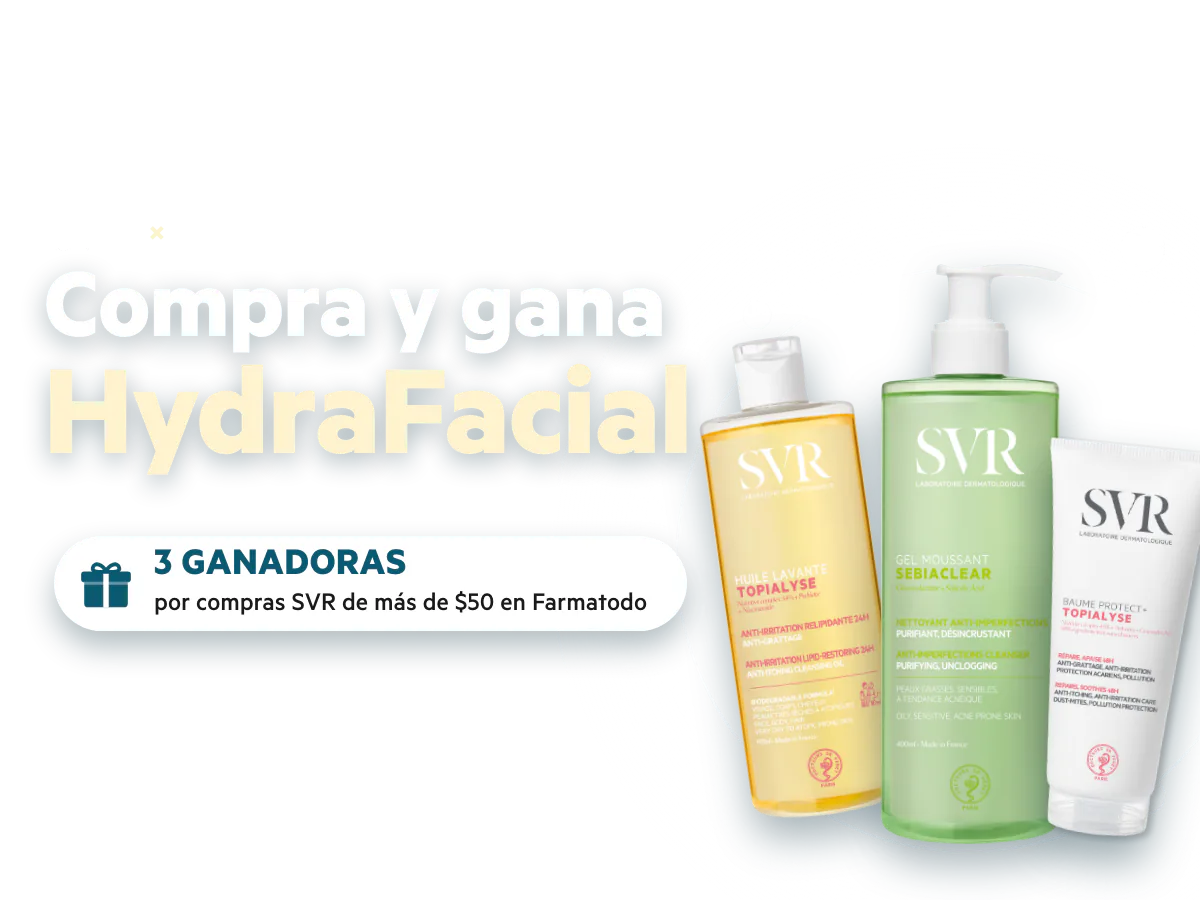
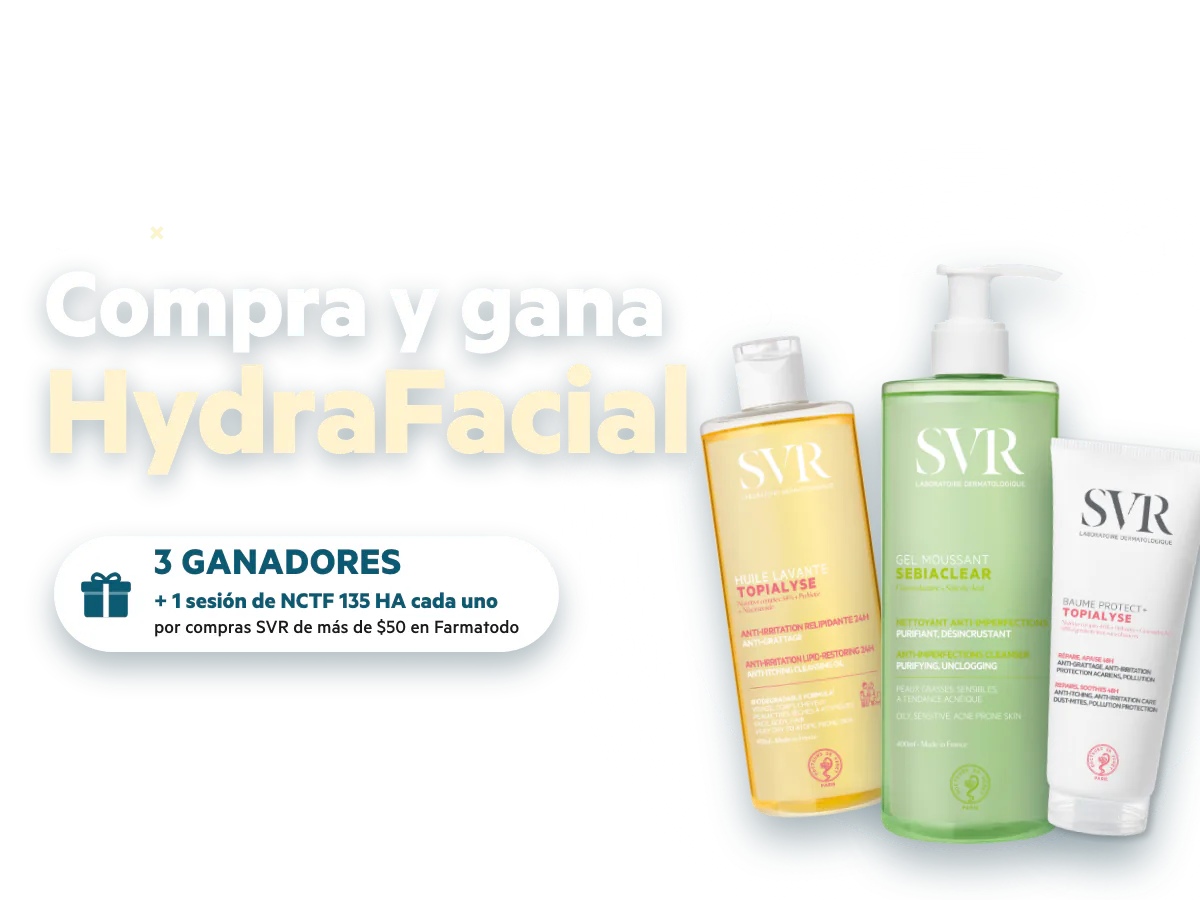
Blua: 3 ganadores, cada uno con 1 sesión de HydraFacial y 1 sesión de NCTF 135 HA adicional
Corrección del cliente: son 3 sesiones de HydraFacial en total, una por ganador (no 3 por
ganador). Además, cada ganador recibe 1 sesión de NCTF 135 HA adicional. El texto dice
«ganadores», y el banner y la imagen para compartir se regeneraron con ese texto.

Changed region(s): [[0.0308, 0.5911, 0.5858, 0.7467]]

diff --git a/blua/index.html b/blua/index.html
@@ -25,7 +25,7 @@
   }
   </script>
   <meta name="viewport" content="width=device-width, initial-scale=1.0">
-  <meta name="description" content="Compra más de $50 en productos SVR en Farmatodo, sube la foto de tu factura y participa por una de las 3 sesiones de HydraFacial en Blua Clinic. Cada sesión incluye 1 sesión de NCTF adicional.">
+  <meta name="description" content="Compra más de $50 en productos SVR en Farmatodo, sube la foto de tu factura y participa. 3 ganadores: cada uno recibe 1 sesión de HydraFacial en Blua Clinic y 1 sesión de NCTF 135 HA adicional.">
   <title>Compra y gana HydraFacial · SVR × Blua Clinic — SVR Venezuela</title>
   <link rel="canonical" href="https://svr-venezuela.com/blua/">
   <link rel="icon" type="image/png" sizes="32x32" href="../assets/favicon-32.png">
@@ -34,7 +34,7 @@
   <meta property="og:type" content="website">
   <meta property="og:url" content="https://svr-venezuela.com/blua/">
   <meta property="og:title" content="Compra y gana HydraFacial · SVR × Blua Clinic">
-  <meta property="og:description" content="Compra más de $50 en productos SVR en Farmatodo, sube tu factura y participa. 3 ganadoras: una sesión de HydraFacial cada una, con 1 sesión de NCTF adicional.">
+  <meta property="og:description" content="Compra más de $50 en productos SVR en Farmatodo, sube tu factura y participa. 3 ganadores: HydraFacial y NCTF 135 HA adicional cada uno.">
   <meta property="og:image" content="https://svr-venezuela.com/assets/og-blua.jpg">
   <meta property="og:locale" content="es_VE">
   <meta name="theme-color" content="#0b5a72">
@@ -115,6 +115,7 @@
     .eyebrow-logos .l-svr { height: 20px; }
     .eyebrow-logos .l-blua { height: 23px; }
     .eyebrow-logos .x { font-size: 0.95rem; line-height: 1; margin-bottom: 1px; }
+    .bajada .destacado { color: var(--teal); font-weight: 700; }
     .seccion h2 { font-size: clamp(1.6rem, 4.2vw, 2.4rem); font-weight: 800; letter-spacing: -0.03em; line-height: 1.1; text-align: center; margin-top: 10px; }
     .seccion .bajada { text-align: center; color: var(--gray); font-size: 0.95rem; line-height: 1.6; margin: 12px auto 0; max-width: 560px; }
 
@@ -274,7 +275,7 @@
           <source media="(max-width: 640px)" srcset="../assets/hero-blua-movil.webp">
           <img src="../assets/hero-blua.webp" width="2400" height="1000" alt="" fetchpriority="high" decoding="async">
         </picture>
-        <h1 class="sr-only">Alianza SVR × Blua Clinic: compra y gana HydraFacial. 3 ganadoras por compras SVR de más de $50 en Farmatodo.</h1>
+        <h1 class="sr-only">Alianza SVR × Blua Clinic: compra y gana HydraFacial. 3 ganadores por compras SVR de más de $50 en Farmatodo, cada uno con 1 sesión de NCTF 135 HA adicional.</h1>
         <a href="#participa" class="portada-cta">Participa <span aria-hidden="true">↓</span></a>
       </div>
     </section>
@@ -302,7 +303,7 @@
     <section class="seccion form-sec" id="participa">
       <div class="eyebrow eyebrow-logos" role="img" aria-label="SVR × Blua Clinic"><img class="l-svr" src="../assets/svr-logo-gris.svg" alt="" width="49" height="20"><span class="x" aria-hidden="true">×</span><img class="l-blua" src="../assets/blua-logo-azul.png" alt="" width="64" height="23"></div>
       <h2>Participa</h2>
-      <p class="bajada">3 sesiones de HydraFacial en Blua Clinic, una para cada una de las 3 ganadoras. Cada sesión incluye 1 sesión de NCTF adicional.</p>
+      <p class="bajada">3 ganadores: cada uno se lleva 1 sesión de HydraFacial en Blua Clinic <b class="destacado">+ 1 sesión de NCTF 135 HA adicional</b>.</p>
 
       <div class="tarjeta">
         <noscript><p class="estado mal" style="margin:0 0 18px">Para participar necesitas activar JavaScript en tu navegador. También puedes escribirnos por <a href="https://wa.me/584242565586?text=Hola%2C%20quiero%20participar%20en%20la%20promoci%C3%B3n%20SVR%20%C3%97%20Blua%20Clinic">WhatsApp</a>.</p></noscript>
@@ -386,7 +387,7 @@
           <div class="exito-ico" aria-hidden="true"><svg viewBox="0 0 24 24" fill="none" stroke="currentColor" stroke-width="2.6" stroke-linecap="round" stroke-linejoin="round"><path d="M20 6 9 17l-5-5"/></svg></div>
           <h3>¡Listo, ya estás participando!</h3>
           <span class="exito-num" id="exitoNumero"></span>
-          <p>Revisaremos tu factura y, si eres una de las 3 ganadoras, te escribiremos a <b id="exitoCorreo"></b>.</p>
+          <p>Revisaremos tu factura y, si eres uno de los 3 ganadores, te escribiremos a <b id="exitoCorreo"></b>.</p>
           <div class="exito-botones">
             <button type="button" class="btn-sec lleno" id="otraCompra">Registrar otra compra</button>
             <a class="btn-sec" href="../tienda/">Ver la tienda SVR</a>
@@ -399,7 +400,7 @@
           <summary>Condiciones de la promoción</summary>
           <ul>
             <li>Participan las compras de productos SVR por más de $50 en Farmatodo.</li>
-            <li>Premio: 3 sesiones de HydraFacial en Blua Clinic (Caracas), una para cada una de las 3 ganadoras. Cada sesión de HydraFacial incluye 1 sesión de NCTF adicional.</li>
+            <li>Premio: 3 ganadores. Cada uno recibe 1 sesión de HydraFacial en Blua Clinic (Caracas) <b>+ 1 sesión de NCTF 135 HA adicional</b>.</li>
             <li>La factura debe verse completa y legible: fecha, productos y total.</li>
             <li>Usamos tus datos solo para esta promoción y para contactarte si ganas.</li>
             <li>Fechas y bases completas: por confirmar.</li>

diff --git a/index.html b/index.html
@@ -1701,7 +1701,7 @@
           <source media="(max-width: 640px)" srcset="assets/hero-blua-movil.webp">
           <img src="assets/hero-blua.webp" width="2400" height="1000" alt="" decoding="async" fetchpriority="low">
         </picture>
-        <h2 class="sr-only">Alianza SVR × Blua Clinic: compra y gana HydraFacial. 3 ganadoras por compras SVR de más de $50 en Farmatodo.</h2>
+        <h2 class="sr-only">Alianza SVR × Blua Clinic: compra y gana HydraFacial. 3 ganadores por compras SVR de más de $50 en Farmatodo, cada uno con 1 sesión de NCTF 135 HA adicional.</h2>
         <a href="blua/" class="hero-blua-cover" tabindex="-1" aria-hidden="true"></a>
         <a href="blua/" class="hero-blua-cta"><span>Participa<span class="cta-extra"> ahora</span></span><span aria-hidden="true">→</span></a>
       </div>
